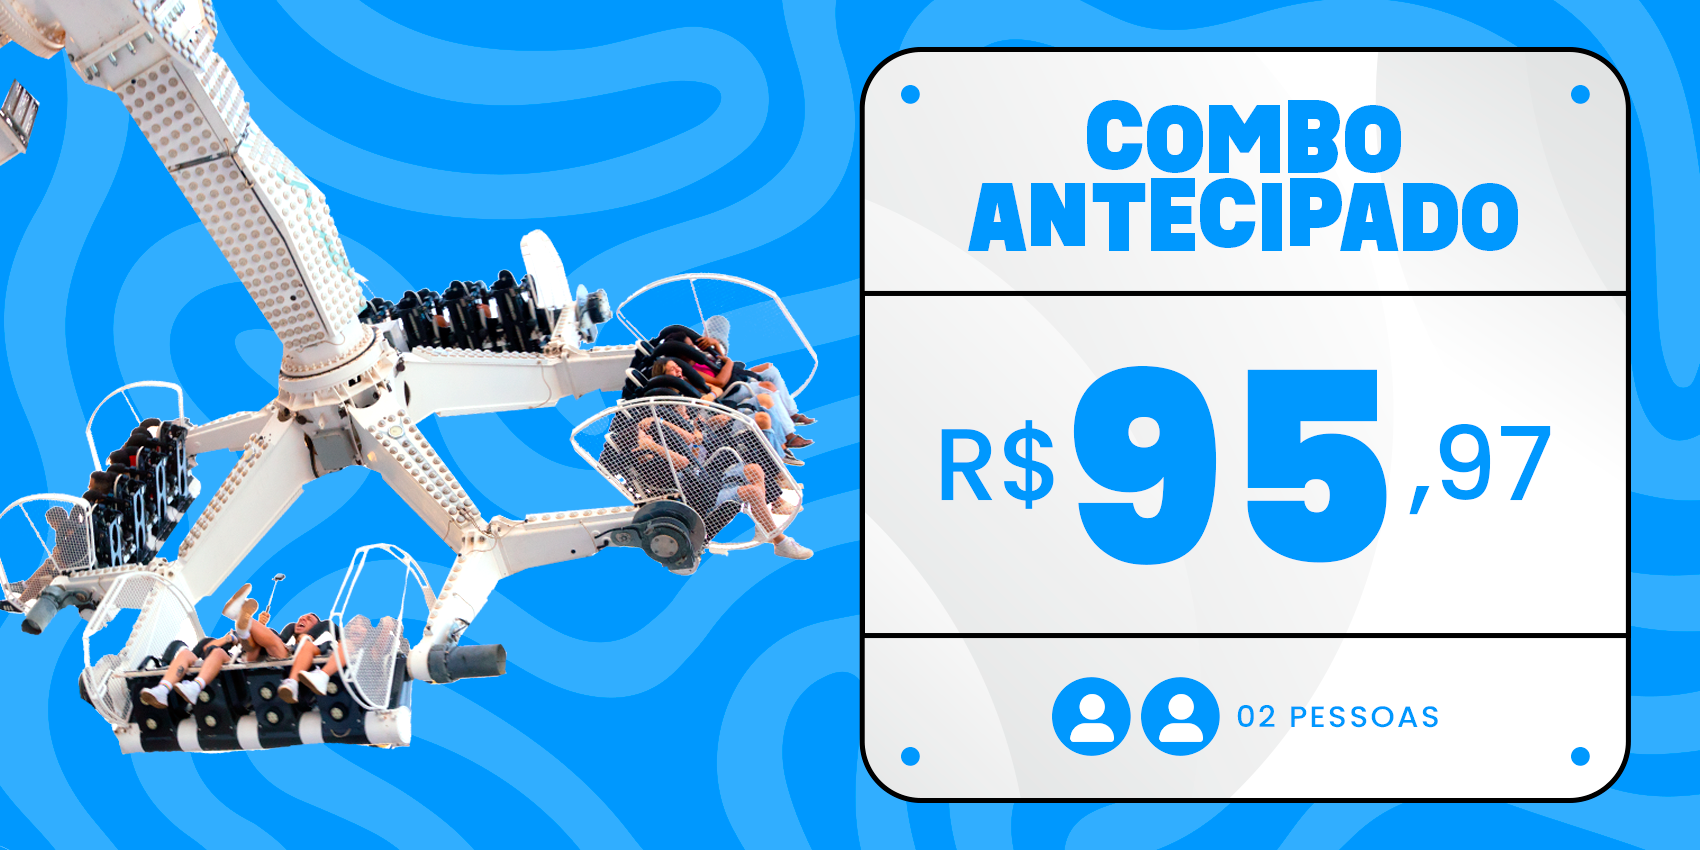
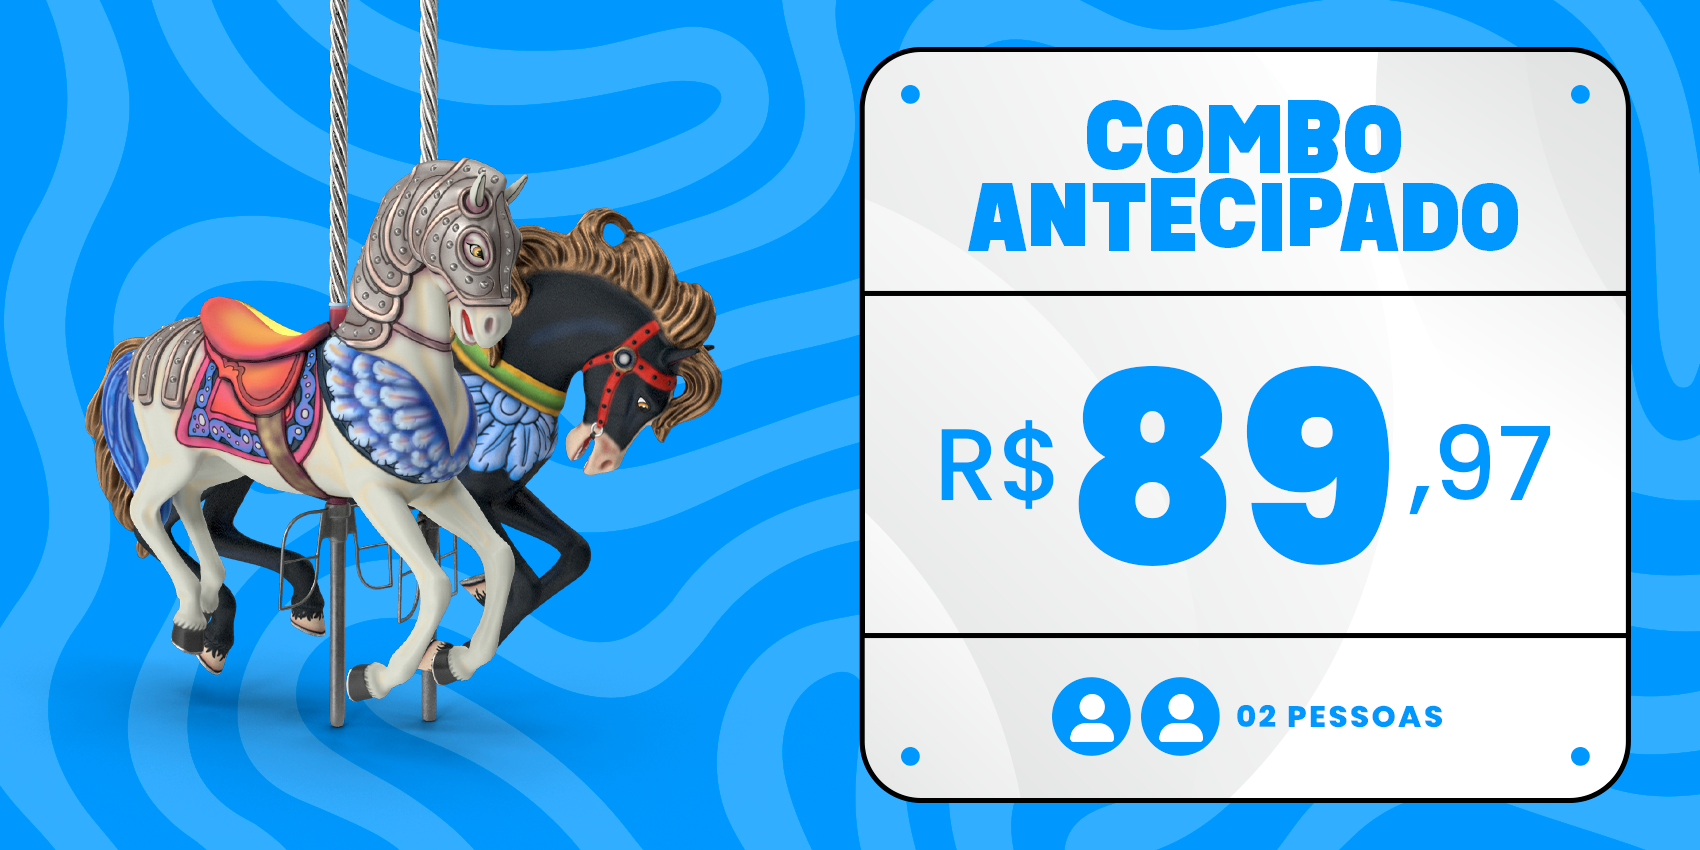
change passaports

diff --git a/src/components/organisms/Tickets.tsx b/src/components/organisms/Tickets.tsx
@@ -4,6 +4,7 @@ import ComboEspetacular from '@/public/images/tickets/combo-espetacular.png'
 import PassaporteAntecipado from '@/public/images/tickets/passaporte-antecipado.png'
 import PassaporteIndividual from '@/public/images/tickets/passaporte-individual.png'
 import PassaporteSuperSegunda from '@/public/images/tickets/passaporte-super-segunda.png'
+import SuperAntecipado from '@/public/images/tickets/super-antecipado.png'
 import SwiperCore, { Autoplay, Navigation } from 'swiper'
 import { Swiper, SwiperSlide } from 'swiper/react'
 
@@ -50,22 +51,13 @@ export default function Tickets() {
       {nowSP.getDay() >= 2 && nowSP.getDay() <= 4 && (
         <>
           <SwiperSlide>
-            {/* <Ticket
+            <Ticket
               id={7}
               name="Passaporte Antecipado"
-              price={4997}
+              price={5297}
               banner={PassaporteAntecipado}
               quantity={1}
-              reference={7697}
-              isPassport
-            /> */}
-            <Ticket
-              id={2}
-              name="Passaporte Individual"
-              price={4997}
-              banner={PassaporteIndividual}
-              quantity={1}
-              reference={4997}
+              reference={6297}
               isPassport
             />
           </SwiperSlide>
@@ -74,10 +66,22 @@ export default function Tickets() {
             <Ticket
               id={14}
               name="Combo Antecipado"
-              price={9597}
+              price={8997}
               banner={ComboAntecipado}
               quantity={2}
-              reference={7697}
+              reference={6297}
+              isPassport
+            />
+          </SwiperSlide>
+
+          <SwiperSlide>
+            <Ticket
+              id={17}
+              name="Super Antecipado"
+              price={12897}
+              banner={SuperAntecipado}
+              quantity={4}
+              reference={6297}
               isPassport
             />
           </SwiperSlide>

diff --git a/src/pages/passaportes/index.tsx b/src/pages/passaportes/index.tsx
@@ -60,31 +60,33 @@ export default function PassaportsPage() {
 
             {nowSP.getDay() >= 2 && nowSP.getDay() <= 4 && (
               <>
-                {/* <Ticket
+                <Ticket
                   id={7}
                   name="Passaporte Antecipado"
-                  price={5497}
+                  price={5297}
                   banner={PassaporteAntecipado}
                   quantity={1}
-                  reference={7697}
+                  reference={6297}
                   isPassport
                 />
+
                 <Ticket
                   id={14}
                   name="Combo Antecipado"
-                  price={9597}
+                  price={8997}
                   banner={ComboAntecipado}
                   quantity={2}
-                  reference={7697}
+                  reference={6297}
                   isPassport
-                /> */}
+                />
+
                 <Ticket
-                  id={2}
-                  name="Passaporte Individual"
-                  price={4997}
-                  banner={PassaporteIndividual}
-                  quantity={1}
-                  reference={4997}
+                  id={17}
+                  name="Super Antecipado"
+                  price={12897}
+                  banner={ComboAntecipado}
+                  quantity={4}
+                  reference={6297}
                   isPassport
                 />
               </>
